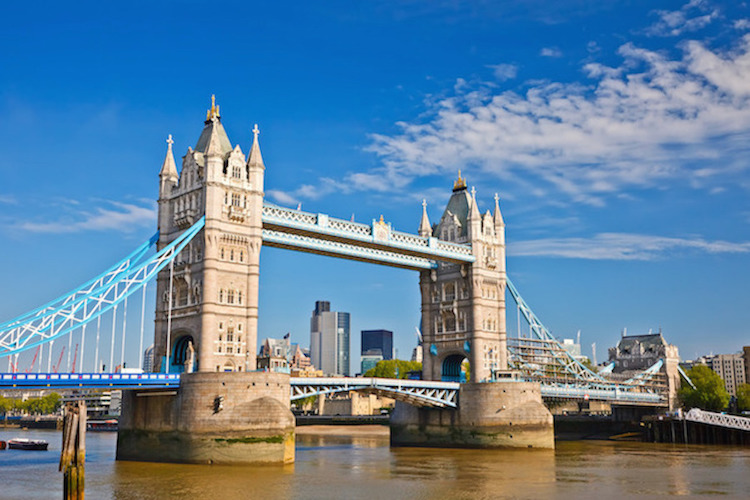
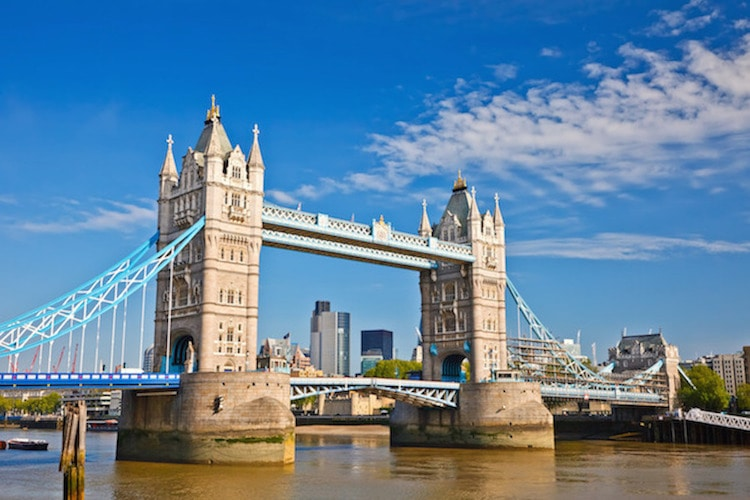
Gulp-imagemin added. Image compression added

diff --git a/gulpfile.js b/gulpfile.js
@@ -10,6 +10,14 @@ var gulp = require('gulp'),
 
 //Handlebars plugin
 var handlebars = require('gulp-compile-handlebars');
+
+//Image compression
+var imagemin = require('gulp-imagemin'),
+    imageminPngQuant = require('imagemin-pngquant'),
+    imageminJpegRecompress = require('imagemin-jpeg-recompress');
+
+//Image Path and extensions
+var IMAGES_PATH = 'src/img/*.{png,jpeg,jpg,svg,gif}';
     
 // Styles task
 // * Minify CSS files
@@ -51,7 +59,18 @@ gulp.task('scripts', function () {
 // Images task
 // Compress Images
 gulp.task('images', function () {
-    console.log('## Starting images task');
+    return gulp.src(IMAGES_PATH)
+    .pipe(imagemin(
+        [
+            imagemin.gifsicle(),
+            imagemin.jpegtran(),
+            imagemin.optipng(),
+            imagemin.svgo(),
+            imageminPngQuant(),
+            imageminJpegRecompress()
+        ]
+    ))
+    .pipe(gulp.dest('public/resources/img'));
 });
 
 //Template task
